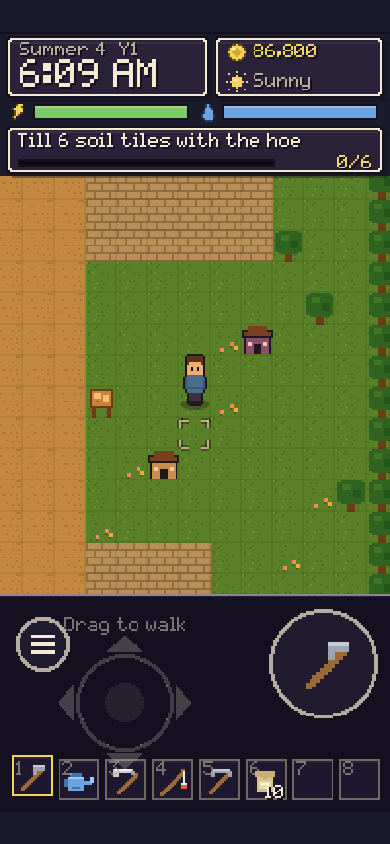
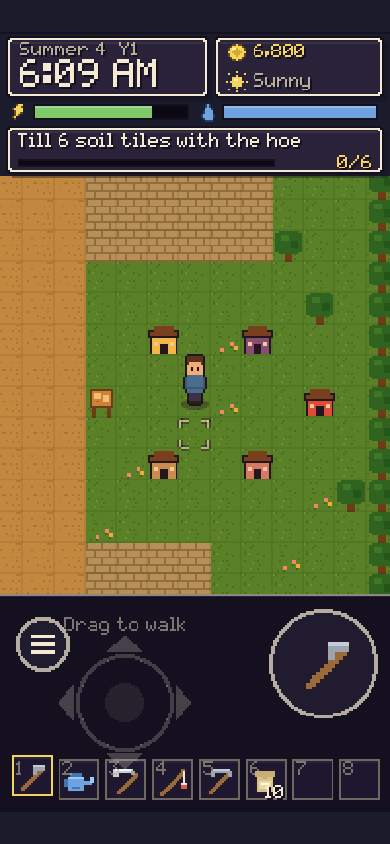
Add the greenhouse: a project-built farm plot for all seasons
A seventh town project builds a 32-tile glass plot on the farm. Crops there
ignore the season (any seed, no withering, no ripen-in-time limit), and the
shop then sells every season's seeds, giving winter a real income. The site
is marked on the farm before it is built. Capstone goal appended.

diff --git a/farm-game/tests/greenhouse.test.ts b/farm-game/tests/greenhouse.test.ts
@@ -1,0 +1,78 @@
+import { describe, expect, it } from 'vitest';
+import '../src/mechanics';
+import { crops, items, plots, projects } from '../src/data';
+import { performAction, type TileInfo } from '../src/systems/actions';
+import { buyItem, stockFor } from '../src/systems/economy';
+import { checkPlant, getSoil, killOutOfSeason, till } from '../src/systems/farming';
+import { addItem } from '../src/systems/inventory';
+import { buyPlot, inGreenhouse, ownsGreenhouse, ownsTile } from '../src/systems/plots';
+import type { GameState } from '../src/state/GameState';
+import { equip, grass, newState } from './helpers';
+
+const [gx, gy, gw, gh] = plots['greenhouse']!.rect;
+const inside: TileInfo = { ...grass(gx, gy), owned: true };
+const outside: TileInfo = { ...grass(10, 17), owned: true };
+
+/** Finish the greenhouse project (progress lives in stats). */
+const build = (s: GameState) => (s.stats['project.greenhouse'] = 1);
+
+describe('greenhouse', () => {
+  it('is a town project that comes after the library and unlocks a farm plot', () => {
+    expect(projects['greenhouse']?.after).toBe('library');
+    expect(plots['greenhouse']?.project).toBe('greenhouse');
+    expect(gw * gh).toBe(32);
+  });
+
+  it('cannot be bought at a sign or tilled before it is built', () => {
+    const s = newState();
+    s.money = 99999;
+    expect(buyPlot(s, 'greenhouse')).toBe('unknown');
+    expect(ownsTile(s, gx, gy)).toBe(false);
+    expect(inGreenhouse(s, gx, gy)).toBe(false);
+    build(s);
+    expect(ownsTile(s, gx, gy)).toBe(true);
+    expect(inGreenhouse(s, gx, gy)).toBe(true);
+    expect(inGreenhouse(s, 10, 17)).toBe(false);
+  });
+
+  it('grows any crop in any season, and nothing in it withers', () => {
+    const s = newState();
+    build(s);
+    s.time.season = 'winter';
+    till(s, gx, gy);
+    till(s, 10, 17);
+    expect(checkPlant(s, gx, gy, 'melon')).toBe('ok');
+    expect(checkPlant(s, 10, 17, 'melon')).toBe('out_of_season');
+    addItem(s, 'melon_seed', 2);
+    equip(s, 'melon_seed');
+    s.time.day = 27; // late in the season: fine under glass
+    expect(performAction(s, inside)).toMatchObject({ ok: true, kind: 'plant' });
+    expect(performAction(s, outside)).toMatchObject({ ok: false });
+    s.time.season = 'spring';
+    expect(killOutOfSeason(s)).toBe(0);
+    expect(getSoil(s, gx, gy)?.crop?.cropId).toBe('melon');
+  });
+
+  it('once built, the shop sells every season’s seeds', () => {
+    const s = newState();
+    s.time.season = 'winter';
+    expect(stockFor('town_general_store', 'winter', s)).not.toContain('melon_seed');
+    build(s);
+    expect(ownsGreenhouse(s)).toBe(true);
+    expect(stockFor('town_general_store', 'winter', s)).toContain('melon_seed');
+    s.money = 1000;
+    expect(buyItem(s, 'town_general_store', 'pumpkin_seed', 1)).toBe('ok');
+  });
+
+  it('a full greenhouse is a real winter income, but not a runaway one', () => {
+    const perTileDay = Math.max(
+      ...Object.values(crops).map((c) => {
+        const days = c.stageDays.reduce((a, b) => a + b, 0);
+        return (items[c.harvestItem]!.sellPrice! * c.harvestQuantity) / days;
+      }),
+    );
+    const perDay = gw * gh * perTileDay;
+    expect(perDay).toBeGreaterThan(400);
+    expect(perDay).toBeLessThan(1200);
+  });
+});

diff --git a/farm-game/src/systems/plots.ts b/farm-game/src/systems/plots.ts
@@ -3,10 +3,11 @@ import type { PlotDef } from '../data';
 import type { GameState } from '../state/GameState';
 import { gameEvents } from './events';
 import { addStat } from './goals';
+import { isProjectDone } from './projects';
 
 export const plotIds = (): string[] => Object.keys(plots);
 export const starterPlots = (): string[] =>
-  plotIds().filter((id) => (plots[id] as PlotDef).price === 0);
+  plotIds().filter((id) => (plots[id] as PlotDef).price === 0 && !(plots[id] as PlotDef).project);
 
 /** The plot that covers a farm tile, if any. */
 export function plotAtTile(tx: number, ty: number): string | null {
@@ -17,7 +18,21 @@ export function plotAtTile(tx: number, ty: number): string | null {
   return null;
 }
 
-export const ownsPlot = (state: GameState, id: string): boolean => state.plots.includes(id);
+/** Bought plots, plus plots that come with a finished town project (the greenhouse). */
+export const ownsPlot = (state: GameState, id: string): boolean => {
+  const project = plots[id]?.project;
+  return state.plots.includes(id) || (!!project && isProjectDone(state, project));
+};
+
+/** Does the player own a greenhouse? Then the shop sells every season's seeds. */
+export const ownsGreenhouse = (state: GameState): boolean =>
+  plotIds().some((id) => plots[id]?.greenhouse === true && ownsPlot(state, id));
+
+/** Is this farm tile inside a greenhouse the player owns? Crops there ignore the season. */
+export function inGreenhouse(state: GameState, tx: number, ty: number): boolean {
+  const id = plotAtTile(tx, ty);
+  return id !== null && plots[id]?.greenhouse === true && ownsPlot(state, id);
+}
 
 /** May the player till here? Only inside plots they own. */
 export function ownsTile(state: GameState, tx: number, ty: number): boolean {
@@ -47,7 +62,7 @@ export type BuyPlotResult = 'ok' | 'no_money' | 'owned' | 'unknown';
 
 export function buyPlot(state: GameState, id: string): BuyPlotResult {
   const p = plots[id];
-  if (!p) return 'unknown';
+  if (!p || p.project) return 'unknown'; // project plots are built, not bought
   if (ownsPlot(state, id)) return 'owned';
   if (state.money < p.price) return 'no_money';
   state.money -= p.price;

diff --git a/farm-game/src/game/ObjectsRenderer.ts b/farm-game/src/game/ObjectsRenderer.ts
@@ -7,6 +7,7 @@ import { getState } from '../state/store';
 import { houseOf, speciesOf } from '../systems/animals';
 import { spriteOf, statusOf } from '../systems/placeables';
 import { landmarksOn } from '../systems/projects';
+import { ownsPlot } from '../systems/plots';
 import { unreadCount } from '../systems/mail';
 import { mail } from '../data';
 import { ensureTexture } from './fallbackTexture';
@@ -114,12 +115,46 @@ export class ObjectsRenderer {
 
   /** Land you have not bought yet is dimmed and fenced with a "for sale" sign showing its price. */
   private syncPlots(state: GameState): void {
-    const sig = state.plots.join(',');
+    const sig = Object.keys(plots)
+      .map((id) => (ownsPlot(state, id) ? '1' : '0'))
+      .join('');
     if (sig === this.plotSig) return;
     this.plotSig = sig;
     this.plotParts.forEach((p) => p.destroy());
     this.plotParts = [];
     for (const [id, p] of Object.entries(plots)) {
+      if (p.project) {
+        // A plot that comes with a town project: a marked site until it is built, then glass.
+        const [x, y, w, h] = p.rect;
+        const built = ownsPlot(state, id);
+        const area = this.scene.add
+          .rectangle(
+            x * TILE_SIZE,
+            y * TILE_SIZE,
+            w * TILE_SIZE,
+            h * TILE_SIZE,
+            built ? 0xbfe6ff : 0x14101f,
+            built ? 0.16 : 0.3,
+          )
+          .setOrigin(0)
+          .setStrokeStyle(1, built ? 0xdff4ff : 0xf4ead2, built ? 0.8 : 0.4)
+          .setDepth(0.55);
+        this.plotParts.push(area);
+        if (!built)
+          this.plotParts.push(
+            new Label(
+              this.scene,
+              (x + w / 2) * TILE_SIZE,
+              (y + h / 2) * TILE_SIZE - 4,
+              `${p.name} site`,
+              {
+                align: 'center',
+                color: 0xf4ead2,
+              },
+            ).setDepth(1),
+          );
+        continue;
+      }
       if (state.plots.includes(id) || !p.sign) continue;
       const [x, y, w, h] = p.rect;
       const area = this.scene.add

diff --git a/farm-game/src/data/index.ts b/farm-game/src/data/index.ts
@@ -356,6 +356,10 @@ export interface PlotDef {
   price: number;
   /** Tile where the "for sale" sign stands (null for free plots). */
   sign: [number, number] | null;
+  /** Owned once this town project is finished (instead of bought at a sign). */
+  project?: string;
+  /** Crops here ignore the season: plant anything, nothing withers. */
+  greenhouse?: boolean;
 }
 export interface GameData {
   startingMoney: number;
@@ -616,7 +620,11 @@ export function validateContent(): void {
         claimed.add(k);
       }
   }
-  if (!Object.values(plots).some((p) => p.price === 0)) fail('plots', 'needs a free starter plot');
+  if (!Object.values(plots).some((p) => p.price === 0 && !p.project))
+    fail('plots', 'needs a free starter plot');
+  for (const [id, pl] of Object.entries(plots))
+    if (pl.project && !projects[pl.project])
+      fail('plots', `"${id}" waits on unknown project "${pl.project}"`);
   for (const [id, pl] of Object.entries(plots))
     if (pl.sign && claimed.has(pl.sign.join(',')))
       fail('plots', `"${id}" sign stands inside a plot`);
@@ -628,7 +636,8 @@ export function validateContent(): void {
     for (const need of p.items ?? [])
       if (!items[need.item] || need.qty < 1)
         fail('projects', `"${id}" needs unknown item "${need.item}" or a bad quantity`);
-    if (Object.keys(p.perks).length === 0) fail('projects', `"${id}" grants no perk`);
+    if (Object.keys(p.perks).length === 0 && !Object.values(plots).some((pl) => pl.project === id))
+      fail('projects', `"${id}" grants no perk and unlocks no plot`);
     if (p.landmark && !mapIds.includes(p.landmark.map))
       fail('projects', `"${id}" landmark is on unknown map "${p.landmark.map}"`);
     // Every chain must lead back to a project that is open from the start (no loops).

diff --git a/farm-game/src/ui/panels/ShopPanel.ts b/farm-game/src/ui/panels/ShopPanel.ts
@@ -14,6 +14,7 @@ import {
 import { toast } from '../../systems/events';
 import { countItem } from '../../systems/inventory';
 import { perk } from '../../systems/skills';
+import { ownsGreenhouse } from '../../systems/plots';
 import { C } from '../theme';
 import { Modal, ROW_H } from '../widgets';
 import { fmt, SHOP_ID } from './format';
@@ -69,7 +70,7 @@ export class ShopPanel extends Modal {
         for (const up of shop.upgrades.filter((u) => u.tab === 'home')) y = this.upgradeRow(y, up);
         rows = ROWS - 1;
       }
-      const stock = stockFor(SHOP_ID, s.time.season).filter((id) => shopTabOf(id) === this.tab);
+      const stock = stockFor(SHOP_ID, s.time.season, s).filter((id) => shopTabOf(id) === this.tab);
       if (stock.length === 0) {
         this.label(8, y + 6, 'Nothing grows in winter. Rest up!', C.creamDim);
         y += ROW_H;
@@ -100,11 +101,12 @@ export class ShopPanel extends Modal {
     const price = priceFor(s, id);
     const own = countItem(s, id);
     const gone = def.type === 'animal' && own > 0;
+    const greenhouse = ownsGreenhouse(s);
     return this.row(y, {
       icon: def.icon,
       title: def.name,
-      sub: shopFacts(id, own, s.time.day),
-      subColor: tooLate(id, s.time.day) ? C.red : undefined,
+      sub: shopFacts(id, own, s.time.day, greenhouse),
+      subColor: !greenhouse && tooLate(id, s.time.day) ? C.red : undefined,
       buttons: [
         {
           label: `${fmt(price)}g`,

diff --git a/farm-game/src/systems/economy.ts b/farm-game/src/systems/economy.ts
@@ -15,6 +15,7 @@ import {
   roomFor,
 } from './inventory';
 import { perk } from './skills';
+import { ownsGreenhouse } from './plots';
 import { keyOf, parseKey, refOf, sellValue, type ItemRef } from './itemRef';
 
 /** Base price of an item id (normal quality, not derived). */
@@ -71,12 +72,16 @@ export function shippingValue(state: GameState): number {
 
 export type BuyResult = 'ok' | 'no_money' | 'full' | 'out_of_season' | 'unknown';
 
-export function stockFor(shopId: string, season: Season): string[] {
-  return (shops[shopId]?.stock ?? []).filter((s) => s.seasons.includes(season)).map((s) => s.item);
+/** What a shop sells today. With a greenhouse (pass `state`), seeds of every season are on the shelf. */
+export function stockFor(shopId: string, season: Season, state?: GameState): string[] {
+  const allSeeds = !!state && ownsGreenhouse(state);
+  return (shops[shopId]?.stock ?? [])
+    .filter((s) => s.seasons.includes(season) || (allSeeds && items[s.item]?.type === 'seed'))
+    .map((s) => s.item);
 }
 
 export function buyItem(state: GameState, shopId: string, itemId: string, qty: number): BuyResult {
-  if (!stockFor(shopId, state.time.season).includes(itemId)) {
+  if (!stockFor(shopId, state.time.season, state).includes(itemId)) {
     return shops[shopId]?.stock.some((s) => s.item === itemId) ? 'out_of_season' : 'unknown';
   }
   const cost = priceFor(state, itemId) * qty;

diff --git a/farm-game/src/mechanics/farmingActions.ts b/farm-game/src/mechanics/farmingActions.ts
@@ -27,6 +27,7 @@ import { addItem, removeFromSlot, roomFor } from '../systems/inventory';
 import { sellValue } from '../systems/itemRef';
 import { placedAt, placeObject } from '../systems/placeables';
 import { addXp } from '../systems/skills';
+import { inGreenhouse } from '../systems/plots';
 
 const TIRED = 'Too tired! Go to bed.';
 
@@ -51,6 +52,7 @@ registerActionHandler({
           if (!res.ok) throw new Error('harvest was planned but failed');
           addStat(state, 'harvested', res.qty);
           if (res.q > 0) addStat(state, 'qualityHarvested', res.qty);
+          if (inGreenhouse(state, tile.tx, tile.ty)) addStat(state, 'greenhouseHarvested', res.qty);
           addXp(
             state,
             'farming',
@@ -78,7 +80,7 @@ registerActionHandler({
       return { refusal: `Won't grow in ${state.time.season}. Plant in ${when}.` };
     }
     const grow = (crops[cropId]?.stageDays ?? []).reduce((a, b) => a + b, 0);
-    if (grow >= game.seasonLength - state.time.day + 1)
+    if (!inGreenhouse(state, tile.tx, tile.ty) && grow >= game.seasonLength - state.time.day + 1)
       return { refusal: `Won't ripen in time (${grow} days). Save it for next season.` };
     // Seeds follow the hoe: a hoe that tills N in a row lets you sow the same row in one press.
     const row = lineFrom(tile, state.player.facing, upgradeLvl(state, 'hoe'))

diff --git a/farm-game/src/systems/farming.ts b/farm-game/src/systems/farming.ts
@@ -5,6 +5,7 @@ import { gameEvents } from './events';
 import { addItem, roomFor } from './inventory';
 import { rollQuality } from './quality';
 import { random } from './rng';
+import { inGreenhouse } from './plots';
 
 export const tileKey = (tx: number, ty: number): string => `${tx},${ty}`;
 export const parseKey = (key: string): [number, number] => {
@@ -48,7 +49,8 @@ export function checkPlant(state: GameState, tx: number, ty: number, cropId: str
   if (!def) throw new Error(`Unknown crop "${cropId}"`);
   if (!soil) return 'no_soil';
   if (soil.crop) return 'occupied';
-  if (!def.seasons.includes(state.time.season)) return 'out_of_season';
+  if (!def.seasons.includes(state.time.season) && !inGreenhouse(state, tx, ty))
+    return 'out_of_season';
   return 'ok';
 }
 
@@ -128,7 +130,9 @@ export function growCrops(state: GameState): void {
 /** Remove crops that can't survive the current season. Returns how many withered. */
 export function killOutOfSeason(state: GameState): number {
   let dead = 0;
-  for (const soil of Object.values(state.farm.tiles)) {
+  for (const [key, soil] of Object.entries(state.farm.tiles)) {
+    const [tx, ty] = parseKey(key);
+    if (inGreenhouse(state, tx, ty)) continue; // warm all year
     if (soil.crop && !cropDef(soil.crop).seasons.includes(state.time.season)) {
       soil.crop = null;
       dead += 1;

diff --git a/farm-game/src/ui/panels/shopFacts.ts b/farm-game/src/ui/panels/shopFacts.ts
@@ -8,12 +8,12 @@ export function tooLate(itemId: string, day: number): boolean {
 }
 
 /** The short line under an item in the shop: facts a buyer needs, never a long blurb. Pure so tests can size it. */
-export function shopFacts(itemId: string, own: number, day: number): string {
+export function shopFacts(itemId: string, own: number, day: number, greenhouse = false): string {
   const def = items[itemId]!;
   const crop = def.plants ? crops[def.plants] : undefined;
   let base: string;
   if (crop)
-    base = tooLate(itemId, day)
+    base = !greenhouse && tooLate(itemId, day)
       ? 'Too late now'
       : `${crop.stageDays.reduce((a, b) => a + b, 0)} days  ${items[crop.harvestItem]?.sellPrice ?? 0}g`;
   else if (def.type === 'animal') base = 'Needs a home';

diff --git a/farm-game/tests/land-tools.test.ts b/farm-game/tests/land-tools.test.ts
@@ -111,7 +111,7 @@ describe('land plots', () => {
     const s = newState();
     const sign = plots['east']!.sign!;
     expect(plotForSaleAt(s, sign[0], sign[1])).toBe('east');
-    expect(signTiles(s)).toHaveLength(Object.keys(plots).length - 1);
+    expect(signTiles(s)).toHaveLength(Object.values(plots).filter((p) => p.sign).length);
     s.money = 9999;
     buyPlot(s, 'east');
     expect(plotForSaleAt(s, sign[0], sign[1])).toBeNull();

diff --git a/farm-game/tests/projects.test.ts b/farm-game/tests/projects.test.ts
@@ -144,7 +144,7 @@ describe('town projects', () => {
     expect(Object.keys(projects).every((id) => isProjectDone(s, id))).toBe(true);
     const total = Object.values(projects).reduce((n, p) => n + p.gold, 0);
     expect(total).toBeGreaterThan(80000);
-    expect(goals.at(-1)?.target).toBe(Object.keys(projects).length);
+    expect(goals.find((g) => g.id === 'projectAll')?.target).toBe(Object.keys(projects).length);
   });
 });
 

diff --git a/farm-game/README.md b/farm-game/README.md
@@ -40,7 +40,7 @@ available (pick up or harvest beats planting beats tilling), so you never have t
 9. **Villagers**: Mara (shop), Finn (woods), Rosa (farm) and Orin (smith) greet you with a "!" each day. Chat once a day and give gifts to grow hearts; hearts unlock discounts, daily presents and perks. Clay, a rival farmer, takes one board request each afternoon from day 8; befriend him to change that.
 10. **Skills**: farming, foraging and fishing level up with use and grant perks (quality, energy, double finds, wider fishing zone).
 11. **Daily jobs**: from day 2, villagers post three small jobs each morning (catch fish, break rocks, fill a request...). They pay on the spot and build friendship. See them in the morning news and Menu > Goal.
-12. **Town projects**: the town board's "Town projects" button lists projects the whole town funds. Give gold and goods a little at a time; each finished one helps for good (more requests, faster skills, more energy, better prices) and adds a building to town.
+12. **Town projects**: the town board's "Town projects" button lists projects the whole town funds. Give gold and goods a little at a time; each finished one helps for good (more requests, faster skills, more energy, better prices) and adds a building to town. The Greenhouse project builds a glass house on your farm where any crop grows in any season.
 13. **Home**: the shop's Home tab sells a Bigger Bag (more slots) and decorations (fences, paths, pots, lamps, a fountain). Place them like a sprinkler; tap twice with Interact to pick one up.
 14. **Mail**: the mailbox beside the shipping bin gets letters in the morning (a star shows when one waits): tips, thank-yous with gifts, festival notices and birthday hints.
 15. Follow the goal tracker at the top; each goal introduces a new mechanic. The first year ends on Winter 28 with a results screen.
